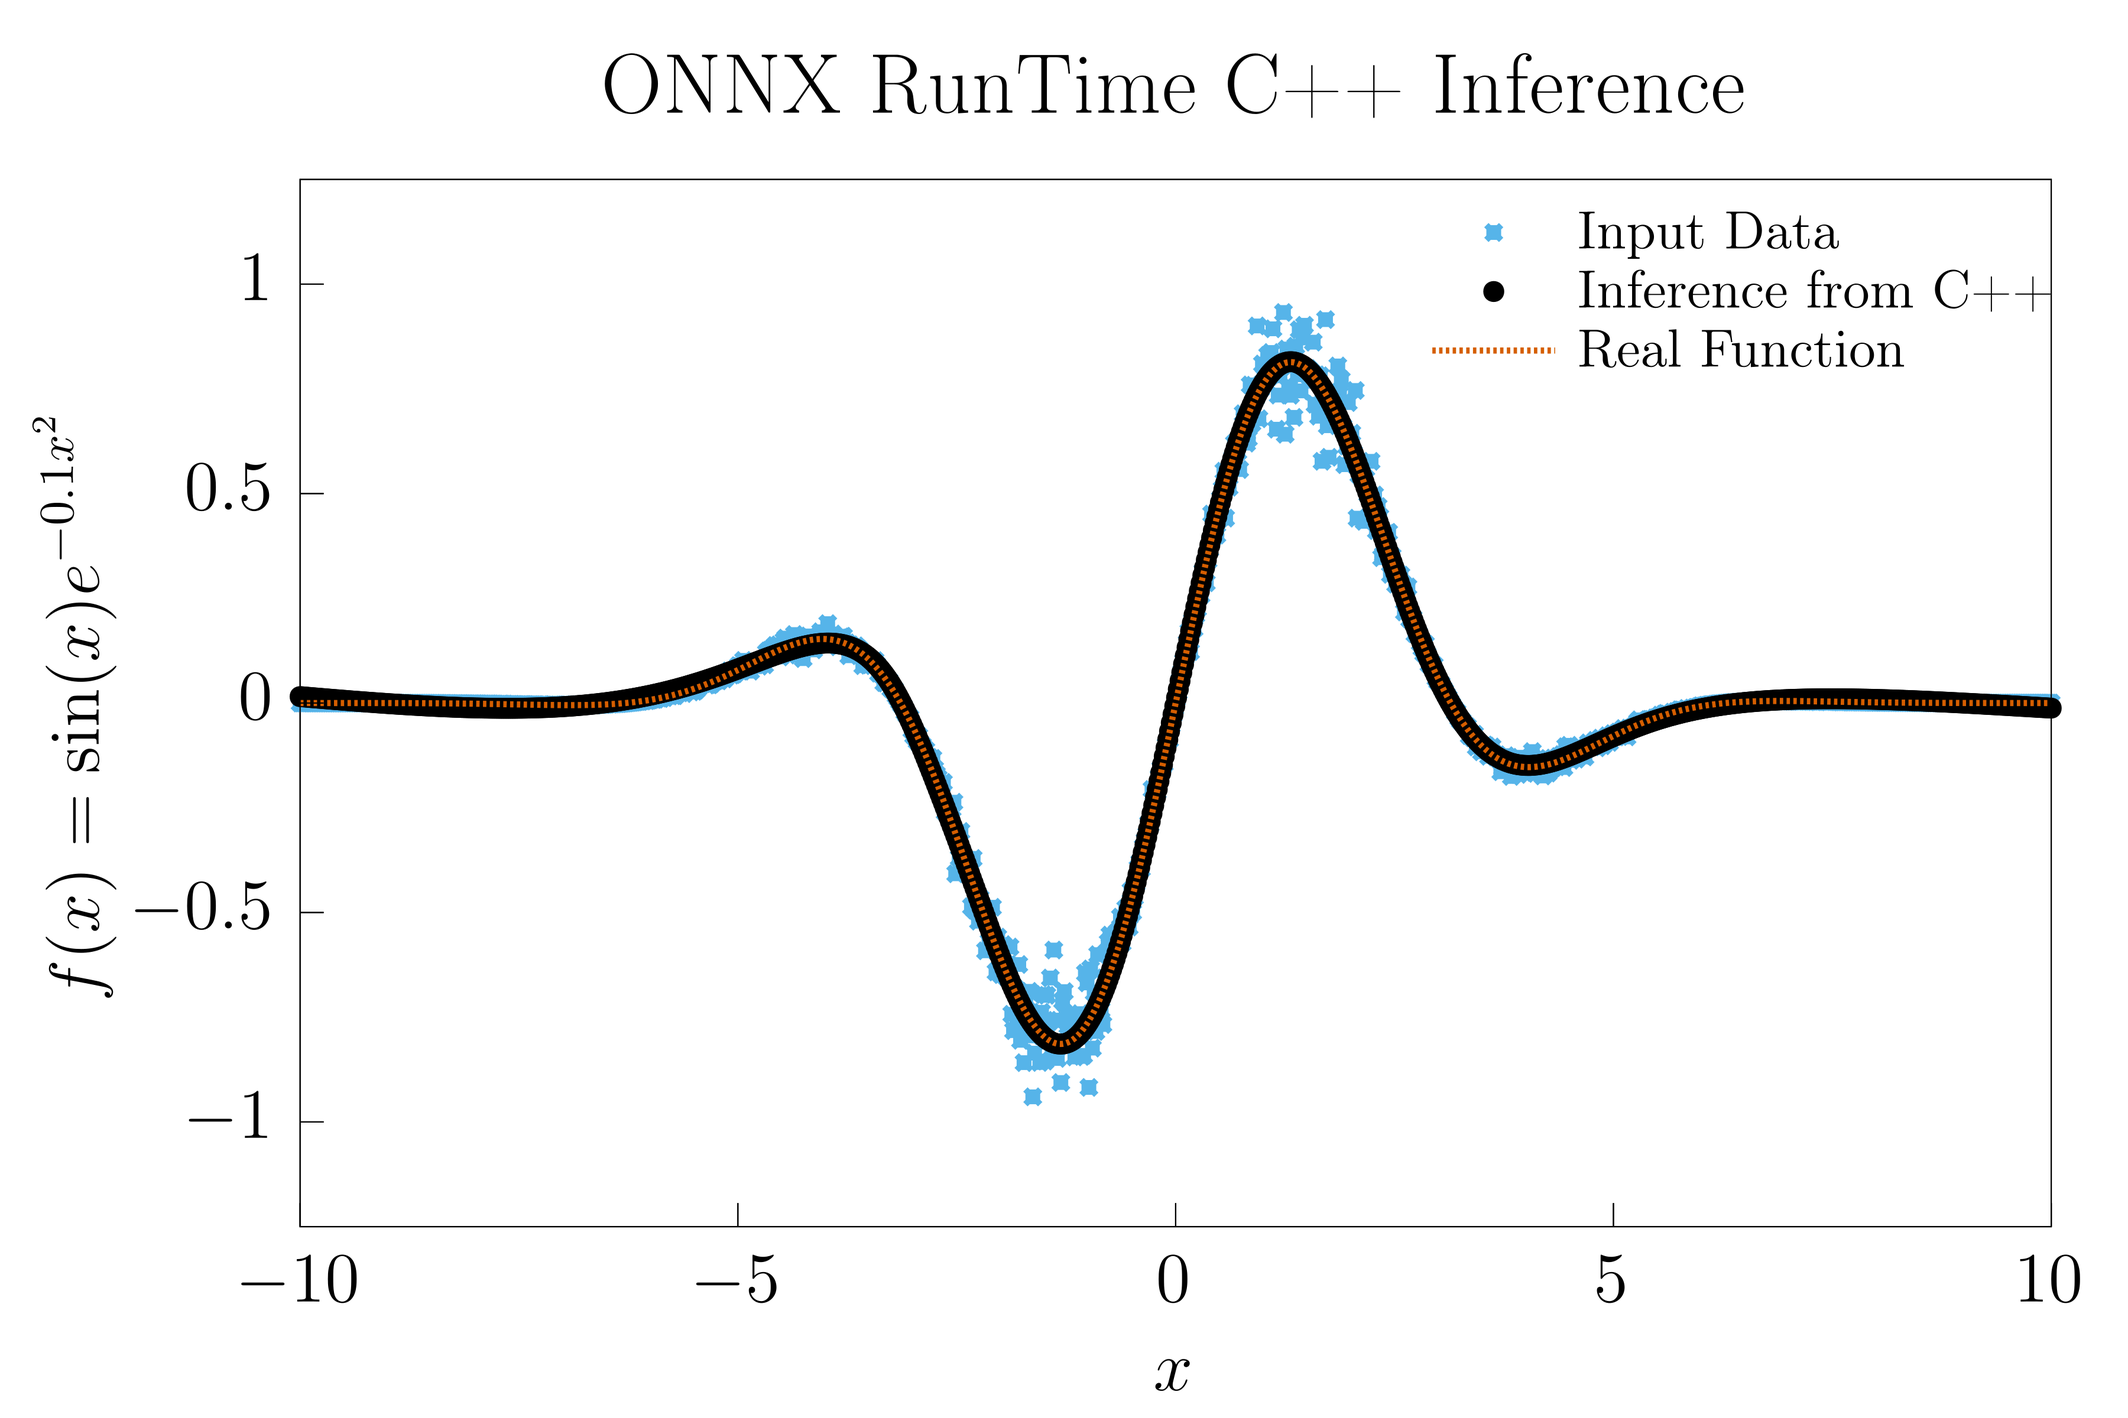
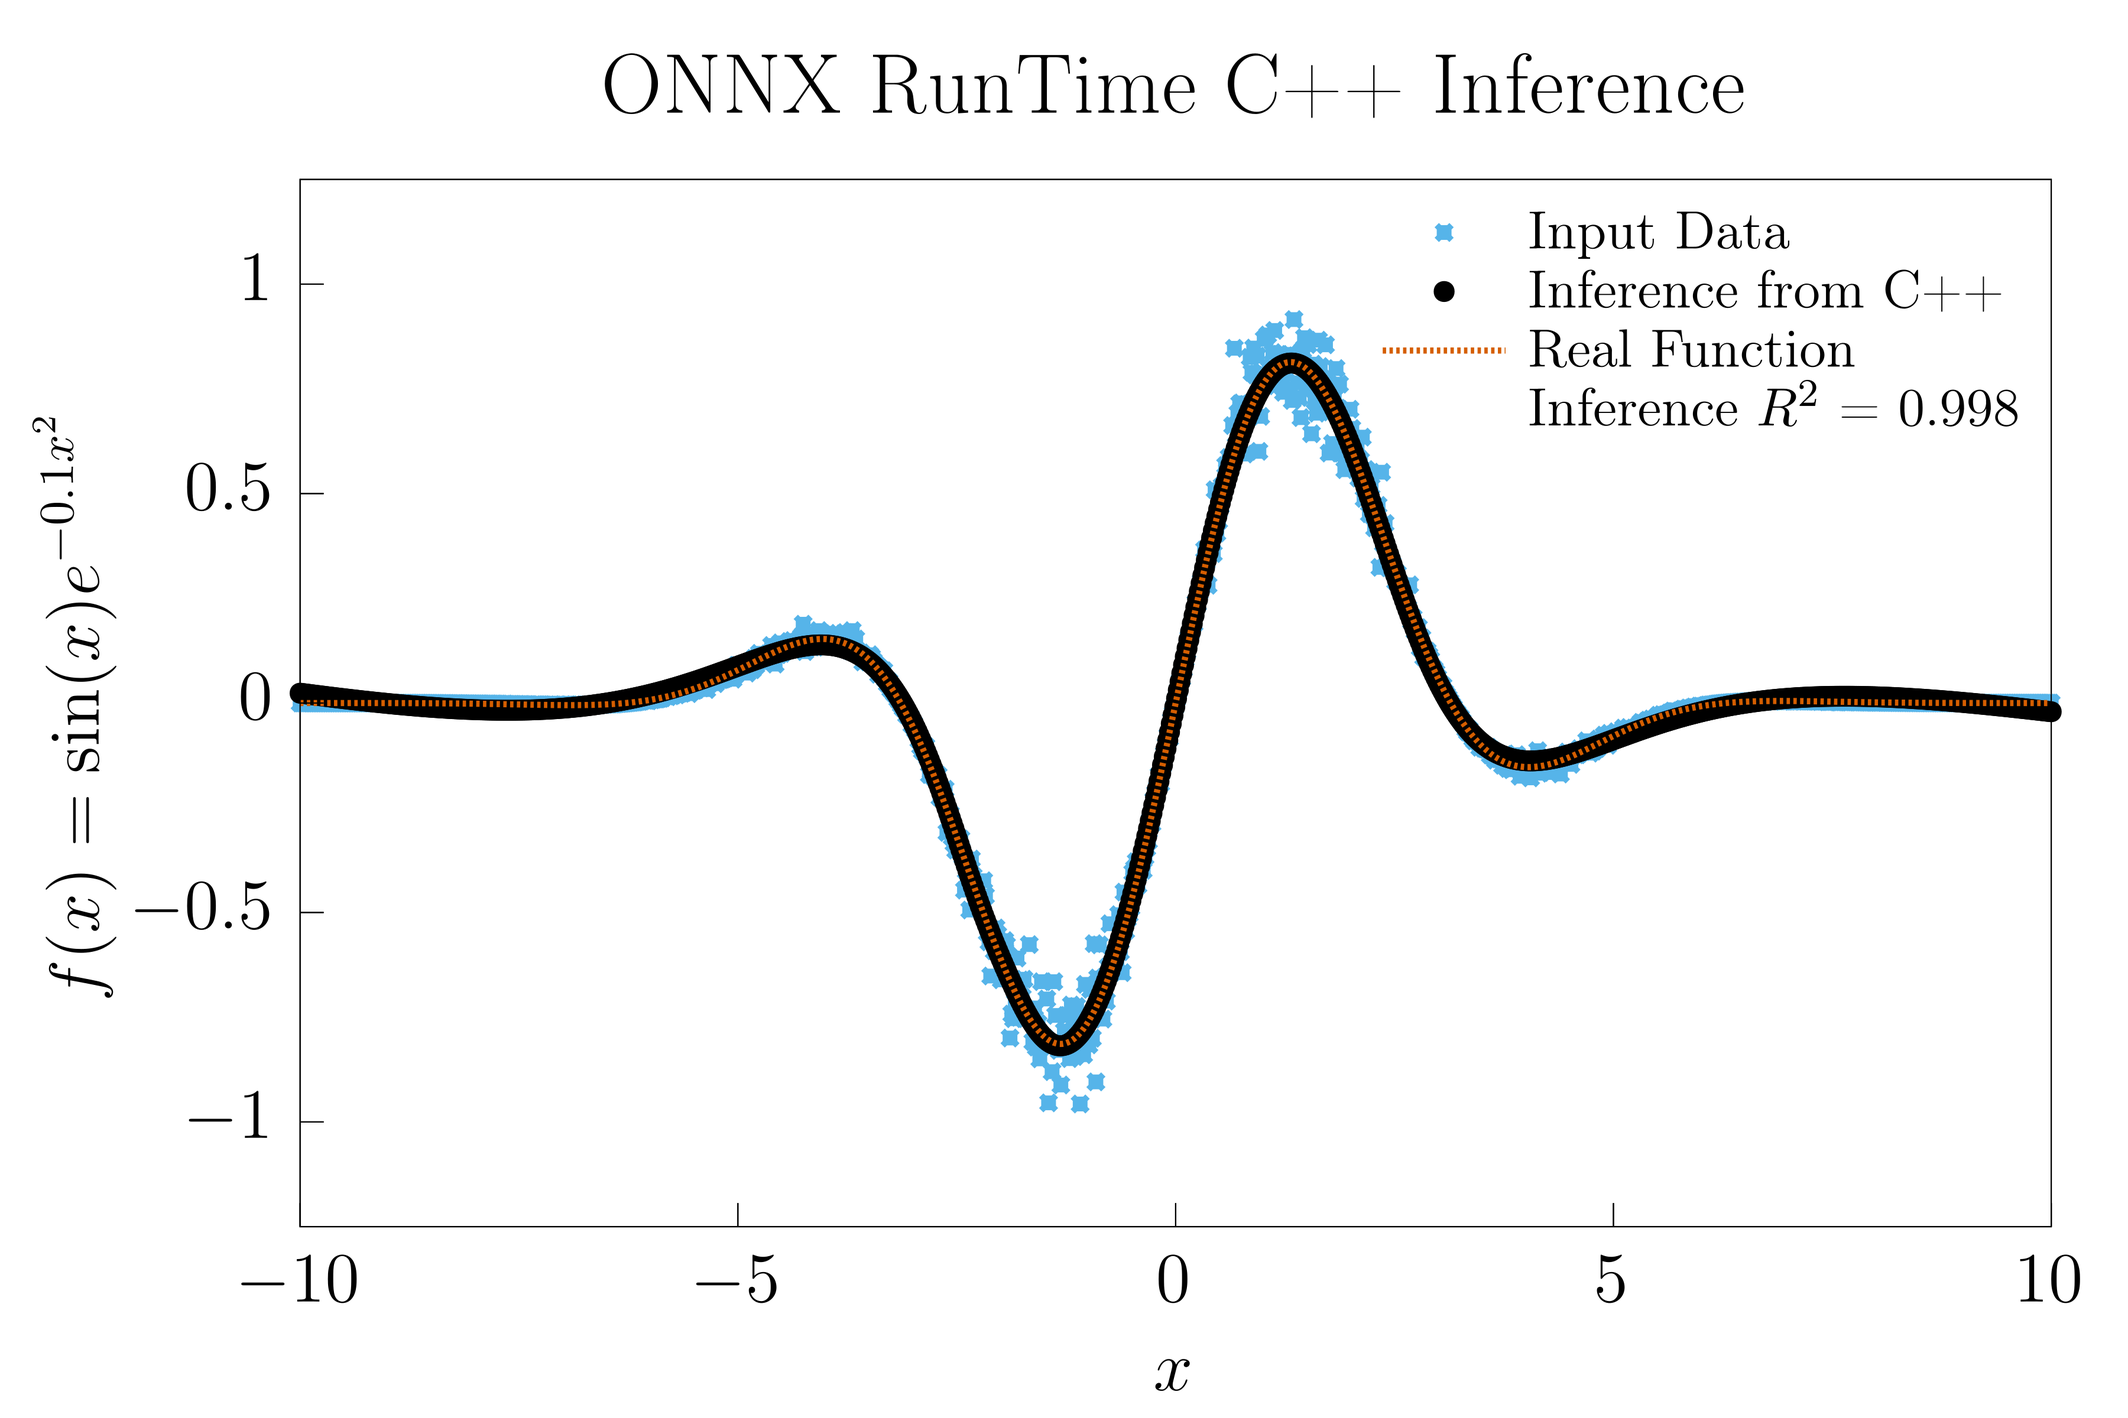
Adding C++ ORT benchmarking in benchmark.cpp. Adding new target in CMake and make to reflect. Adding quantitative results (R^2, timing benchmarking) to README and final_inference plot

diff --git a/cpp/include/ort_inference_from_model.h b/cpp/include/ort_inference_from_model.h
@@ -7,6 +7,8 @@
 #include <fstream>
 #include <memory>
 #include <numeric>
+#include <chrono>
+#include <span>
 #include <random>
 #include "onnxruntime_cxx_api.h"
 
@@ -90,7 +92,11 @@ class ONNXModel
         {
             return session->Run(run_options, input_names.data(), &input_tensor, 1, output_names.data(), output_count);
         }
-    inline std::vector<Ort::Value> run_batch(const std::vector<float> &batch_data, std::size_t batch_size)
+        inline void set_input_scalar(float value) noexcept 
+        {
+            input_ptr[0] = value;
+        }
+    inline std::vector<Ort::Value> run_batch(const std::vector<float> &batch_data, std::size_t batch_size) const
     {
         Ort::MemoryInfo memory_info = Ort::MemoryInfo::CreateCpu(OrtArenaAllocator, OrtMemTypeCPU);
         std::vector<int64_t> batch_shape = {static_cast<int64_t>(batch_size), 1};
@@ -119,11 +125,125 @@ class coordinateData
         inline const std::vector<float>& get_y() const noexcept {return y;}
 };
 
+class benchmarker
+{
+public:
+    using clock = std::chrono::high_resolution_clock;
+    using ms = std::chrono::duration<double, std::milli>;
+private:
+    ONNXModel& model;
+    const std::vector<float>& x;
+    const std::size_t num_iterations = 1000;
+    std::size_t iteration = 0;
+    double mean_ms = 0.0;
+    double M2 = 0.0;
+public:
+    benchmarker(ONNXModel& m, const std::vector<float>& input) : model(m), x(input) {}
+    void update_stats(double value_ms)
+    {
+        iteration++;
+        double delta = value_ms - mean_ms;
+        mean_ms += delta / iteration;
+        double delta2 = value_ms - mean_ms;
+        M2 += delta * delta2;
+    }
+    void reset()
+    {
+        iteration = 0;
+        mean_ms = 0.0;
+        M2 = 0.0;
+        model.reset_input_tensor();
+    }
+    void time_batch()
+    {
+        const std::size_t N = x.size();
+        while (iteration < num_iterations)
+        {
+            auto start = clock::now();
+            (void)model.run_batch(x, N);
+            auto end = clock::now();
+            double ms = std::chrono::duration<double, std::milli>(end - start).count();
+            update_stats(ms);
+        }
+    }
+    void time_per_point()
+    {
+        const std::size_t N = x.size();
+        while (iteration < num_iterations)
+        {
+            auto start = clock::now();
+            for (float v : x)
+            {
+                model.set_input_scalar(v);
+                (void)model.run();
+            }
+            auto end = clock::now();
+            double ms = std::chrono::duration<double, std::milli>(end - start).count();
+            update_stats(ms);
+        }
+    }
+    void warmup(std::size_t n = 100)
+    {
+        model.set_input_scalar(x[0]);
+        for (std::size_t i = 0; i < n; i++)
+        {
+            (void)model.run();
+        }
+    }
+
+    void warmup_batch(std::size_t n = 100)
+    {
+        for (std::size_t i = 0; i < n; i++)
+        {
+            (void)model.run_batch(x, x.size());
+        }
+    }
+    void report(const std::string& label) const
+    {
+        double variance = (iteration > 1) ? (M2 / (iteration - 1)) : 0.0;
+        double stddev = std::sqrt(variance);
+        const double total_samples = static_cast<double>(x.size());
+        const double mean_iteration_ms = mean_ms;
+        double per_sample_ms = mean_iteration_ms / total_samples;
+        double seconds = mean_iteration_ms / 1000.0;
+        double throughput = total_samples / seconds;
+
+        std::cout << "\n[" << label << "]\n";
+        std::cout << "Mean iteration time: " << mean_iteration_ms << " ms\n";
+        std::cout << "Stddev (iteration): " << stddev << " ms\n";
+        std::cout << "Throughput: " << throughput/1e6 << " +/- " << throughput * (stddev/mean_iteration_ms)/1e6 << " million samples/sec\n";
+    }
+};
+
 inline float function(float x) noexcept 
 {
     return std::sin(x) * std::exp(-0.1f * x * x);
 }
-coordinateData generate_model_data(std::size_t num_points, float noise_stddev = 1.f, float x0 = -10.f, float xf = 10.f);
 void exportData(const coordinateData &data, const std::string &filename);
+
+double calculate_inference_r2(const std::vector<float> &x, const std::vector<float> &y);
+
+coordinateData generate_model_data(std::size_t num_points, float noise_stddev = 1.f, float x0 = -10.f, float xf = 10.f)
+{
+    // Could also just resize the vectors here and use like arrays
+    // Choosing reserve for more realistic usage where num_points might not be known 
+    // In a different situation
+    std::vector<float> x, y;
+    x.reserve(num_points);
+    y.reserve(num_points);
+    std::mt19937 rng(42); // Fixed seed for reproducibility
+    std::normal_distribution<float> noise(0.0f, noise_stddev);
+    float step_size_x = (xf - x0) / static_cast<float>(num_points - 1);
+    for (std::size_t i = 0; i < num_points; ++i)
+    {
+        float x_val = x0 + i * step_size_x;
+        float y_val = function(x_val);
+        // Apply heteroscedastic noise
+        y_val += noise(rng) * 0.1f * std::fabs(y_val);
+        x.push_back(x_val);
+        y.push_back(y_val); // Use the function and add noise
+    }
+    return coordinateData(std::move(x), std::move(y));
+}
 
 #endif 

diff --git a/cpp/ort_inference_from_model.cpp b/cpp/ort_inference_from_model.cpp
@@ -1,5 +1,24 @@
 #include "ort_inference_from_model.h"
 
+double calculate_inference_r2(const std::vector<float> &x, const std::vector<float> &y)
+{
+    double ss_res = 0.0;
+    double ss_tot = 0.0;
+    double y_mean = 0.0;
+    for(float xi : x)
+    {
+        y_mean += function(xi);
+    }
+    y_mean /= static_cast<double>(x.size());
+    for (std::size_t i = 0; i < x.size(); ++i)
+    {
+        double y_truth = function(x[i]);
+        ss_res += (y_truth - y[i]) * (y_truth - y[i]);
+        ss_tot += (y_truth - y_mean) * (y_truth - y_mean);
+    }
+    return 1.0 - (ss_res / ss_tot);
+}
+
 void exportData(const coordinateData &data, const std::string &filename)
 {
     std::ofstream file(filename);
@@ -14,29 +33,6 @@ void exportData(const coordinateData &data, const std::string &filename)
         file << x[i] << " " << y[i] << "\n";
     }
     file.close();
-}
-
-coordinateData generate_model_data(std::size_t num_points, float noise_stddev, float x0, float xf)
-{
-    // Could also just resize the vectors here and use like arrays
-    // Choosing reserve for more realistic usage where num_points might not be known 
-    // In a different situation
-    std::vector<float> x, y;
-    x.reserve(num_points);
-    y.reserve(num_points);
-    std::mt19937 rng(std::random_device{}());
-    std::normal_distribution<float> noise(0.0f, noise_stddev);
-    float step_size_x = (xf - x0) / static_cast<float>(num_points - 1);
-    for (std::size_t i = 0; i < num_points; ++i)
-    {
-        float x_val = x0 + i * step_size_x;
-        float y_val = function(x_val);
-        // Apply heteroscedastic noise
-        y_val += noise(rng) * 0.1f * std::fabs(y_val);
-        x.push_back(x_val);
-        y.push_back(y_val); // Use the function and add noise
-    }
-    return coordinateData(std::move(x), std::move(y));
 }
 
 int main()
@@ -58,24 +54,26 @@ int main()
     // Predict at each x
 
     // Batched inference 
-    // auto x_data = data.get_x();
-    // auto output = model.run_batch(x_data, x_data.size());
-    // auto output_data = output.front().GetTensorData<float>();
-    // std::vector<float> y_vals(output_data, output_data + x_data.size());
+    auto x_data = data.get_x();
+    auto output = model.run_batch(x_data, x_data.size());
+    auto output_data = output.front().GetTensorData<float>();
+    std::vector<float> y_vals(output_data, output_data + x_data.size());
     
     // Per-point inference
-    std::vector<float> y_vals;
-    y_vals.reserve(data.get_x().size());
-    for(const auto x_val : data.get_x())
-    {
-        model.set_input_tensor({x_val});
-        auto output = model.run();
-        auto &output_tensor = output.front();
-        auto output_data = output_tensor.GetTensorData<float>();
-        y_vals.push_back(output_data[0]);
-    }
+    // std::vector<float> y_vals;
+    // y_vals.reserve(data.get_x().size());
+    // for(const auto x_val : data.get_x())
+    // {
+    //     model.set_input_scalar(x_val);
+    //     auto output = model.run();
+    //     auto &output_tensor = output.front();
+    //     auto output_data = output_tensor.GetTensorData<float>();
+    //     y_vals.push_back(output_data[0]);
+    // }
     exportData(coordinateData(data.get_x(), y_vals), "../../Plotting/ort_inference/ort_inference.dat");
     auto realFunctionData = generate_model_data(1000, 0.f);
     exportData(realFunctionData, "../../Plotting/ort_inference/real_function.dat");
+    double r2 = calculate_inference_r2(data.get_x(), y_vals);
+    std::cout << "Inference R^2: " << r2 << std::endl;
     return 0;
 }

diff --git a/cpp/benchmark.cpp b/cpp/benchmark.cpp
@@ -1,0 +1,24 @@
+// Same header b/c shared classes and functions
+#include "ort_inference_from_model.h" 
+
+int main()
+{
+    ONNXModel model("../../model_files/function_model.onnx");
+    auto data = generate_model_data(1000);
+    benchmarker bench(model, data.get_x());
+
+    // Benchmark per-point inference
+    bench.warmup();
+    bench.time_per_point();
+    bench.report("Per-point Inference");
+
+    // Manually reset benchmarker state before batch inference
+    bench.reset();
+
+    // Benchmark batch inference
+    bench.warmup_batch();
+    bench.time_batch();
+    bench.report("Batch Inference");
+
+    return 0;
+}

diff --git a/README.md b/README.md
@@ -1,11 +1,38 @@
 ### Overview
 A project that takes a simple model in PyTorch to learn $f(x) = \sin(x)e^{-0.1x^2}$, 
-exports it to ONNX, and runs inference in C++ via ONNX Runtime - demonstrating how a 
+exports it to ONNX, and performs inference in C++ via ONNX Runtime (ORT) - demonstrating how a 
 trained model can be deployed in a performance-critical environment without a Python 
-runtime dependency. Results are visualized using [gnuplot-latex-utils](https://github.com/ksalamone59/gnuplot_latex_utils), producing 
+runtime dependency. As well, explicit comparisons between per sample and batched inference in ORT are performed. Results are visualized using [gnuplot-latex-utils](https://github.com/ksalamone59/gnuplot_latex_utils), producing 
 publication-ready plots directly from C++ output. Tested with ORT 1.22.1. 
 
+## Key Results
+### ORT Inference vs Input Data vs True Function
 ![Inference Plot](final_inference.png)
+- Using the output from ORT inferencing in C++ 
+- Plots: 
+    - Heteroscedastically noisy input data (blue squares)
+    - C++ Inference (black circles)
+    - Truth function (dashed orange)
+- Observations:
+    - Despite being trained on heteroscedastic noisy data, the model accurately recovers the underlying function when evaluated via ONNX Runtime (C++) inference, achieving $R^{2}=0.998$ against the true function
+### Per Sample vs Batched Inference Comparisons
+- In the `benchmark.cpp` file, we evaluate the runtime behavior of the inferencing in Ort in two ways:
+    - Repeated single-sample execution (`Ort::Session::Run()` called N times) and 
+    - Single batched execution over N samples 
+- Throughput is calculated as total processed samples / mean iteration time 
+- Per Sample (sequential `Run()` calls over 1000 inputs):
+    - Mean iteration time: $1.73 \pm 0.13$ ms
+    - Throughput: $579324 \pm 42653$ samples/s
+- Per Batch (single `Run()` call on 1000 inputs):
+    - Mean iteration time (1 batch of 1k samples): $0.11 \pm 0.02$ ms
+    - Throughput: $9.41 \pm 1.53$ million samples/s
+- Implication: batched input showcases $\sim16\times$ speedup under this measurement configuration
+- There are some overhead differences between the two implementations, including:
+    - Repeated per-call inference overhead 
+    - Repeated calling of `Ort::Session::Run()` 1k times 
+    - Lack of execution graph amortization via batching
+- Timing variations is expected due to effects such as CPU scheduling and the cache state
+
 
 ## Repository Layout 
 ```plaintext 
@@ -17,12 +44,14 @@ publication-ready plots directly from C++ output. Tested with ORT 1.22.1.
 ├── Makefile
 ```
 
-- `python`: Directory with generate_model.py; the script used to generate the data for, and train, the main model. It also exports the model to .onnx and .pth formats, and quantifies the performance of the model on various datasets.
-- `cpp`: Directory where the C++ code for inference lies, ort_inference_from_model.cpp. Includes a CMakeLists.txt where you can compile the directory by creating a build directory then running `cmake -DONNXRUNTIME_DIR="/path/to/ONNXRunTime"`. Executable will be named onnx_inference. However, the Makefile will handle this should the user want less interfacing.
-- `model_files`: Directory that stores output from generate_model.py, both .pth and .onnx files are stored here.
-- `python_figures`: Output directory for all matplotlib figures generated within generate_model.py. Includes figures like loss curves, residuals, truth vs noisy input, noisy input vs model predictions, etc.
-- `Plotting`: Directory containing [gnuplot-latex-utils](https://github.com/ksalamone59/gnuplot_latex_utils) as a submodule. Automatically stores output from C++ inference into the Plotting/ort_inference directory. The Makefile that exists here will automatically run the plotting scripts. Please see the original documentation for more information.
-- `Makefile`: Runs the pipeline in order: from the python model generation and plot creation, to the C++ inference, to creating the final output. The input expected is `make ORT_DIR=/path/to/ONNXRunTime/`. Note: `make clean` will delete the model files as well for completeness. 
+- `python/`: Directory with generate_model.py; the script used to generate the data for, and train, the main model. It also exports the model to .onnx and .pth formats, and quantifies the performance of the model on various datasets.
+- `cpp/`: Directory where the C++ code for inference lies, ort_inference_from_model.cpp. Includes a CMakeLists.txt where you can compile the directory by creating a build directory then running `cmake -DONNXRUNTIME_DIR="/path/to/ONNXRunTime"`. Executable will be named onnx_inference. However, the Makefile will handle this should the user want less interfacing.
+
+    One can also run benchmarking of per point inferencing vs per batch inferencing in ORT. This code is stored in `benchmark.cpp`. You do this either by using the makefile (below) or by running the `onnx_benchmark` executable after running cmake and make.
+- `model_files/`: Directory that stores output from generate_model.py, both .pth and .onnx files are stored here.
+- `python_figures/`: Output directory for all matplotlib figures generated within generate_model.py. Includes figures like loss curves, residuals, truth vs noisy input, noisy input vs model predictions, etc.
+- `Plotting/`: Directory containing [gnuplot-latex-utils](https://github.com/ksalamone59/gnuplot_latex_utils) as a submodule. Automatically stores output from C++ inference into the Plotting/ort_inference directory. The Makefile that exists here will automatically run the plotting scripts. Please see the original documentation for more information.
+- `Makefile`: Runs the pipeline in order: from the python model generation and plot creation, to the C++ inference, to creating the final output. The input expected is `make ORT_DIR=/path/to/ONNXRunTime/`. Note: `make clean` will delete the model files as well for completeness. You can run `make benchmark_cpp ORT_DIR=/path/to/ONNXRunTime/` to run the benchmarking code from `benchmark.cpp`.
 
 ### How to Run the Code
 - Run git submodule update --init --recursive
@@ -41,5 +70,5 @@ publication-ready plots directly from C++ output. Tested with ORT 1.22.1.
 - ONNXRunTime C++ API, tested with 1.22.1
     - I installed it from [here](https://www.nuget.org/api/v2/package/Microsoft.ML.OnnxRuntime/1.22.1)
 - CMake
-- At least c++17
+- C++17 or later
 - gnuplot and pdflatex (see [gnuplot-latex-utils](https://github.com/ksalamone59/gnuplot_latex_utils) for details)
